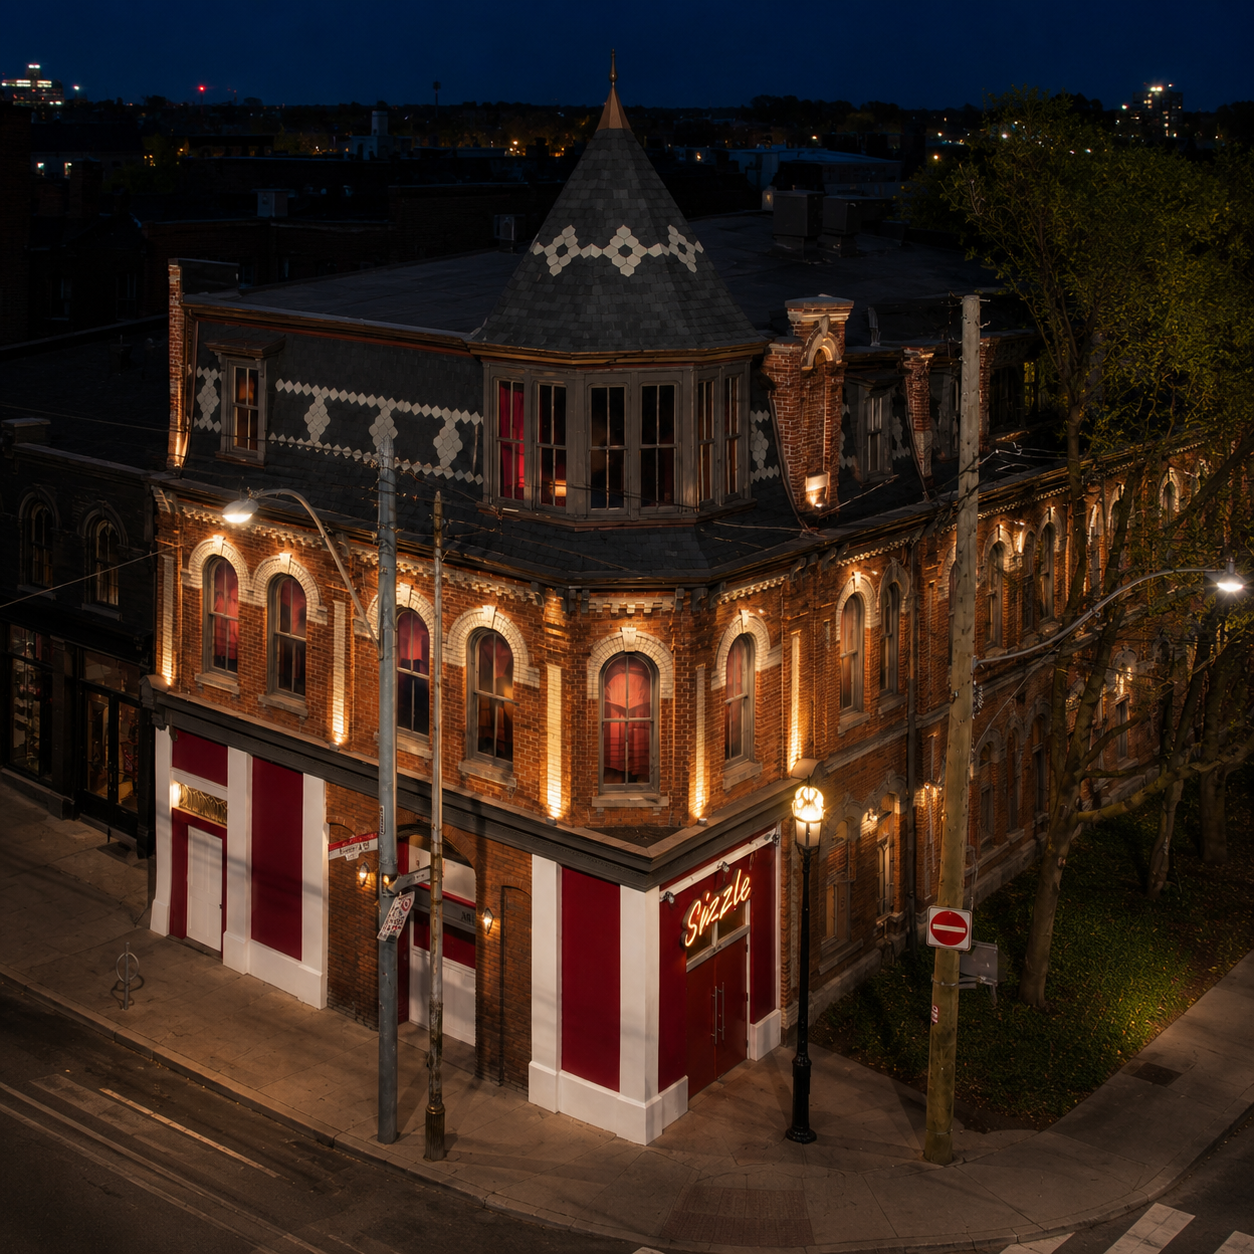
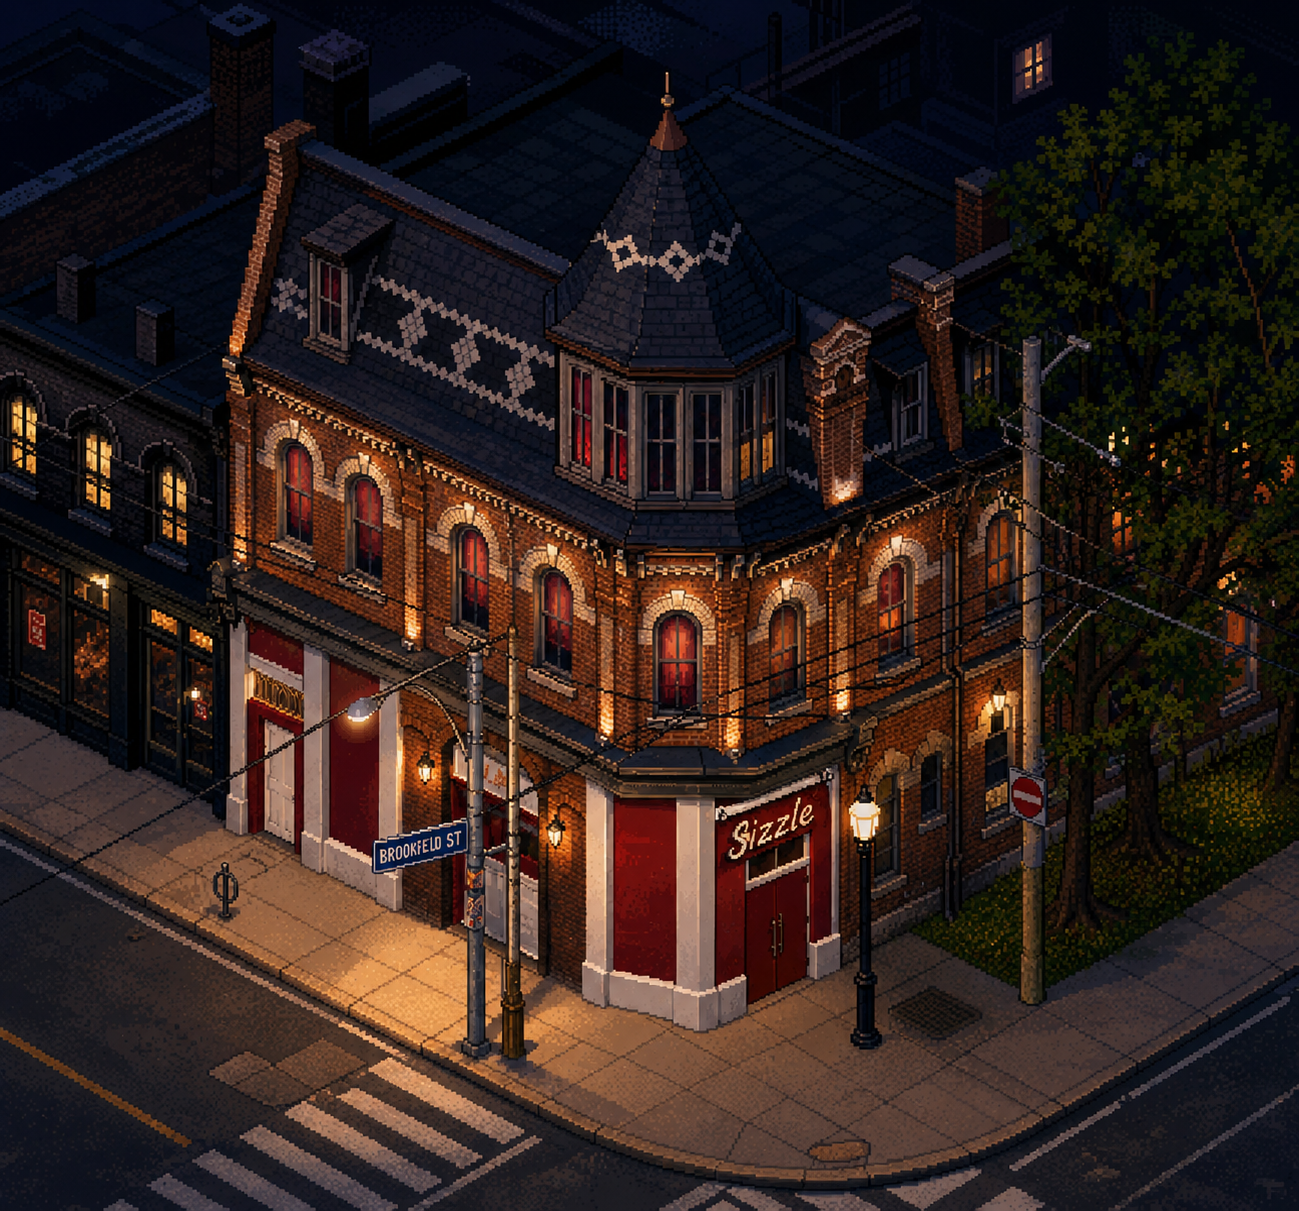
CC: descope CC-200 appearance picker; add title + lakehouse images
Remove the "Physical Description" (CC-200 Appearance) step from the
character creator. The player character now has a single fixed baseline
appearance; clothing and expression are manipulated at runtime per scene.

- Delete CC-200; rewire CC-100 -> CC-300 and CC-300 back -> CC-100
- Renumber the dossier tab strip and step counters from 5 to 4 steps
- Drop appearance rows from the CC-500 summary and the character sheet
- Remove the now-dead appearance-picker CSS (option grids, swatches,
  :has(.is-selected) selection, preview-footer)
- Add the Sizzle exterior image to the title page and the lakehouse
  image to the top of MAN-110
- Doc sweep: CLAUDE.md, GDD.md, STYLE-GUIDE.md, GREYBOX-WRITING.md,
  BLACKOUT.md updated to reflect the descope

diff --git a/sizzle/src/styles/character-creator.css b/sizzle/src/styles/character-creator.css
@@ -190,75 +190,6 @@
   position: relative;
 }
 
-.cc-avatar-preview .preview-footer {
-  display: flex;
-  justify-content: space-between;
-  margin-top: 14px;
-  color: var(--sz-cream-faint);
-  font-family: var(--sz-f-mono);
-  font-size: 10px;
-  letter-spacing: 0.18em;
-}
-
-
-/* --- Option grid --------------------------------------------- */
-.cc-options {
-  display: grid;
-  gap: 8px;
-  margin: 0 0 22px;
-}
-
-.cc-options.--cols-3 { grid-template-columns: repeat(3, 1fr); }
-.cc-options.--cols-4 { grid-template-columns: repeat(4, 1fr); }
-.cc-options.--cols-6 { grid-template-columns: repeat(6, 1fr); }
-
-.cc-option {
-  display: flex;
-  flex-direction: column;
-  align-items: center;
-  gap: 6px;
-  padding: 8px;
-  background: var(--sz-ink-3);
-  border: 1px solid var(--sz-rule);
-  cursor: pointer;
-  transition: border-color 0.15s;
-  position: relative;
-}
-
-.cc-option:hover {
-  border-color: var(--sz-brass-dim);
-}
-
-.cc-option.selected,
-.cc-option:has(.is-selected) {
-  border-color: var(--sz-brick);
-  outline: 1px solid var(--sz-brick-glow);
-  outline-offset: 2px;
-}
-
-.cc-option .is-selected {
-  display: none;
-}
-
-.cc-option .swatch {
-  width: 100%;
-  height: 56px;
-  border: 1px solid var(--sz-rule-strong);
-}
-
-.cc-option .option-name {
-  font-family: var(--sz-f-ui);
-  font-size: 11px;
-  letter-spacing: 0.12em;
-  text-transform: uppercase;
-  color: var(--sz-cream-soft);
-}
-
-.cc-option.selected .option-name,
-.cc-option:has(.is-selected) .option-name {
-  color: var(--sz-cream);
-}
-
 
 /* --- Field (text input with eyebrow label) ------------------- */
 .cc-field {
@@ -539,29 +470,6 @@
   display: none;
 }
 .cc-bg-card a.link-internal:hover {
-  color: inherit;
-  border-bottom: none;
-  padding-left: 0;
-  background: transparent;
-}
-
-/* Option grid link overrides */
-.cc-option a.link-internal {
-  display: flex;
-  flex-direction: column;
-  align-items: center;
-  gap: 6px;
-  color: inherit;
-  border-bottom: none;
-  padding: 0;
-  font-style: normal;
-  width: 100%;
-}
-.cc-option a.link-internal::before,
-.cc-option a.link-internal::after {
-  display: none;
-}
-.cc-option a.link-internal:hover {
   color: inherit;
   border-bottom: none;
   padding-left: 0;

diff --git a/sizzle/src/styles/passages.css b/sizzle/src/styles/passages.css
@@ -596,6 +596,18 @@ body[data-mode="day"] .skill-check {
   margin-bottom: var(--sz-s-9);
 }
 
+.page-main-menu .menu-image {
+  display: block;
+  width: 100%;
+  max-width: 440px;
+  max-height: 300px;
+  object-fit: cover;
+  margin: 0 auto;
+  border: 1px solid var(--sz-rule);
+  box-shadow: var(--sz-shadow-card);
+  border-radius: var(--sz-radius-md);
+}
+
 .page-main-menu .decisions {
   align-items: center;
 }

diff --git a/sizzle/docs/GDD.md b/sizzle/docs/GDD.md
@@ -152,10 +152,11 @@ The inciting incident selected during character creation explains why the player
 | Choice | Screen | Effect |
 |--------|--------|--------|
 | Name | CC-100 | First name and surname. Used for real identity. |
-| Appearance | CC-200 | Skin tone (3), hair colour (3), hair style (3), eye colour (3). Drives avatar sprite selection. |
 | Pre-Branch background | CC-300 | What the player was doing before the Branch recruited them. Four options: RCMP constable, CSIS analyst, grad student (psychology), unemployed after university. Influences starting skill levels and can assign background-derived story tags. |
 | Inciting incident | CC-400 | Why the Branch recruited them. Planned as a selectable playable August 2003 origin sequence; may grant a trait, establish backstory, and determine relationship to NYSE phenomena. |
 | Cover identity | *In-game* | The persona used inside Sizzle. Not defined during character creation — developed a few passages into the main story, possibly partially assigned by the Branch and partially crafted by the player. |
+
+Appearance is **not** a player choice. The player character has a single fixed baseline appearance (greybox lock: medium skin, long straight hair, blue eyes). Her look is varied at runtime through clothing, expression, and physical state, not picked at creation.
 
 ### Skills
 
@@ -320,7 +321,7 @@ The `$date` object tracks year, month, day, day of week, and a coarse time-of-da
 ### Act structure
 
 **Prologue: Recruitment**
-- Character creation (name, appearance, background, inciting incident), including a playable origin sequence for the selected incident.
+- Character creation (name, background, inciting incident), including a playable origin sequence for the selected incident.
 - The player's recruitment to the Branch two years prior is established. She's trained, not green.
 - Assignment briefing: this is the mission, this is what we know, this is what we need.
 
@@ -399,7 +400,7 @@ The greybox covers the **Prologue** and the **briefing** (the opening beat of Ac
 
 **What's in v1:**
 
-- Character creation (name, appearance, background, inciting incident, summary), plus a playable origin sequence for the selected incident
+- Character creation (name, background, inciting incident, summary), plus a playable origin sequence for the selected incident
 - The player's recruitment context is established through the August 2003 incident sequence and the later briefing context (two years at the Branch, trained, not green)
 - Branch briefing scene: the handler, the assignment, what's known about Sizzle, what the player is being asked to do
 - At least one skill check (likely composure or academic during the briefing)

diff --git a/sizzle/docs/GREYBOX-WRITING.md b/sizzle/docs/GREYBOX-WRITING.md
@@ -11,9 +11,8 @@
 - [x] Field labels — done
 - [x] Flavor text — done. Service record panel + blockquote about codename assignment.
 
-### CC-200 Appearance
-- [x] Header and option labels — done
-- [ ] Flavor text: brief, optional. Could be a note about the player looking at herself, or the clinical tone of a personnel file describing physical characteristics.
+### CC-200 Appearance — *descoped (removed)*
+- The appearance picker has been cut from the character creator. The player character now has a single fixed baseline appearance (see STYLE-GUIDE.md §12.1). No writing needed here.
 
 ### CC-300 Background
 - [x] Header and intro paragraph — done
@@ -132,7 +131,7 @@ Reference the GDD Section 10 (Tone & Content Guidelines) during all writing. Key
 
 | Category | Total Items | Done | Remaining |
 |----------|------------|------|-----------|
-| CC screen text polish | 5 screens | 4 | 1 (CC-200 flavor text) |
+| CC screen text polish | 4 screens | 4 | 0 (CC-200 appearance screen descoped) |
 | Background descriptions | 4 | 4 | 0 |
 | Skill bonuses per background | 4 | 4 | 0 |
 | Playable inciting incident sequences | 4 | 0 | **4 selected; need full sequence design and implementation** |

diff --git a/sizzle/CLAUDE.md b/sizzle/CLAUDE.md
@@ -346,7 +346,7 @@ Failure text and onward links.
 
 ### What's built and working
 - **Main menu** — centered title page with night mode, single "Begin" link
-- **Character creation (5 steps)** — full dossier-style flow with tab strip, option grids with `:has()` selection, background cards, redacted incident placeholder, summary table, signature block, and background-selection guardrails
+- **Character creation (4 steps)** — dossier-style flow (Identification → Background → The Incident → Summary) with tab strip, background cards, redacted incident placeholder, summary table, signature block, and background-selection guardrails. The player's baseline appearance is fixed (the CC-200 appearance picker was descoped); clothing and expression are manipulated at runtime per scene, not chosen at creation
 - **Derived-state rebuilds** — `CC-500` recalculates skill bonuses and background-derived story tags from scratch on revisit instead of stacking
 - **Briefing scene (INTRO-100 through INTRO-800)** — ~30 passages, complete prologue with branching dialogue, skill checks, background-specific variants
 - **Glossary hover terms** — `<<term>>` widget and tooltip styling are live, currently used for `NYSE`

diff --git a/sizzle/docs/STYLE-GUIDE.md b/sizzle/docs/STYLE-GUIDE.md
@@ -553,7 +553,7 @@ When erotic content overlaps with horror — NYSE compulsion, contamination, ove
 
 Physical descriptions must be consistent with established facts. Build, scars, tattoos, hair, physical capabilities — these are constraints on all future descriptions. Getting a body detail wrong breaks trust.
 
-The player character's appearance is set at CC-200 (skin tone, hair colour, hair style, eye colour) and reflected in `$player.complexion` / `$player.hairColour` / `$player.hairStyle` / `$player.eyeColour` / `$player.faceShape`. Reference these via `<<print>>` or background-conditional prose rather than asserting fixed traits.
+The player character has a single fixed baseline appearance — the greybox lock of medium skin, long straight hair, and blue eyes (see `docs/avatar-bakeoff/OPTION-2-ASSET-TODO.md`). Appearance is no longer chosen at character creation (the CC-200 picker was descoped). Treat the baseline as a fixed constraint, the way an NPC's appearance is fixed; what changes at runtime is clothing, expression, and physical state, not her build or colouring. (The legacy `$player.complexion` / `$player.hairColour` / `$player.hairStyle` / `$player.eyeColour` / `$player.faceShape` fields still exist with stale defaults — do not drive prose off them.)
 
 Robert's appearance is fixed (NPC-handler.md §Appearance). Future NPCs get their fixed appearance written into their profile docs at first introduction.
 

diff --git a/sizzle/docs/incidents/BLACKOUT.md b/sizzle/docs/incidents/BLACKOUT.md
@@ -160,7 +160,7 @@ CC-300 Background  →  CC-400 Incident (select "the Toronto Blackout")
 ```
 
 - `CC-400` currently holds redacted placeholder text; selection there picks the sequence.
-- BLK passages are **scene-mode** flashback with the **avatar panel visible** (decided — she's the created character; appearance set at CC-200 carries into the flashback).
+- BLK passages are **scene-mode** flashback with the **avatar panel visible** (decided — she's the created character; her fixed baseline appearance carries into the flashback).
 - **Day→night transition at the threshold (decided).** BLK-085 through BLK-135 run in **afternoon / day mode** (`<<setTime "afternoon">>`, daytime palette) — the table-setting, the bar, the blackout at 4:11, the walk. When she **crosses into the building at BLK-140**, set evening (`<<setTime "evening">>`) and the palette flips to **night mode**. The mode flip lands on the act of entering the wrong space, and it tracks the real event clock (blackout mid-afternoon, full dark by the time the trouble inside is underway). Everything BLK-140 onward is night.
 - BLK-210 → `CC-500` keeps the existing summary/signature/deploy flow intact.
 - No edits to INTRO-* required; INTRO-101's fallback simply stops being exercised once the value is set.